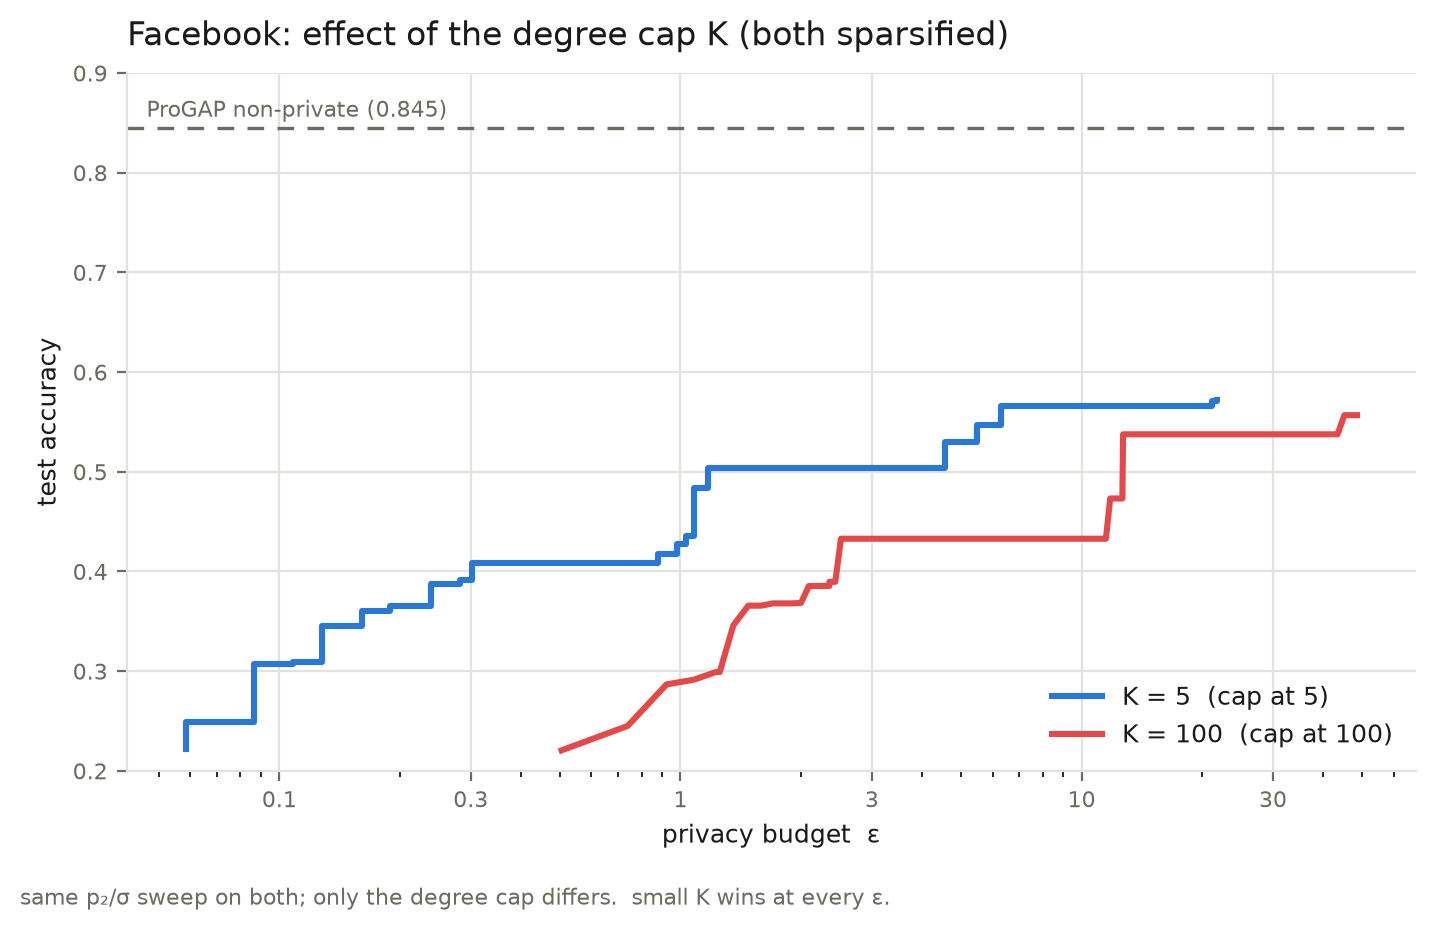
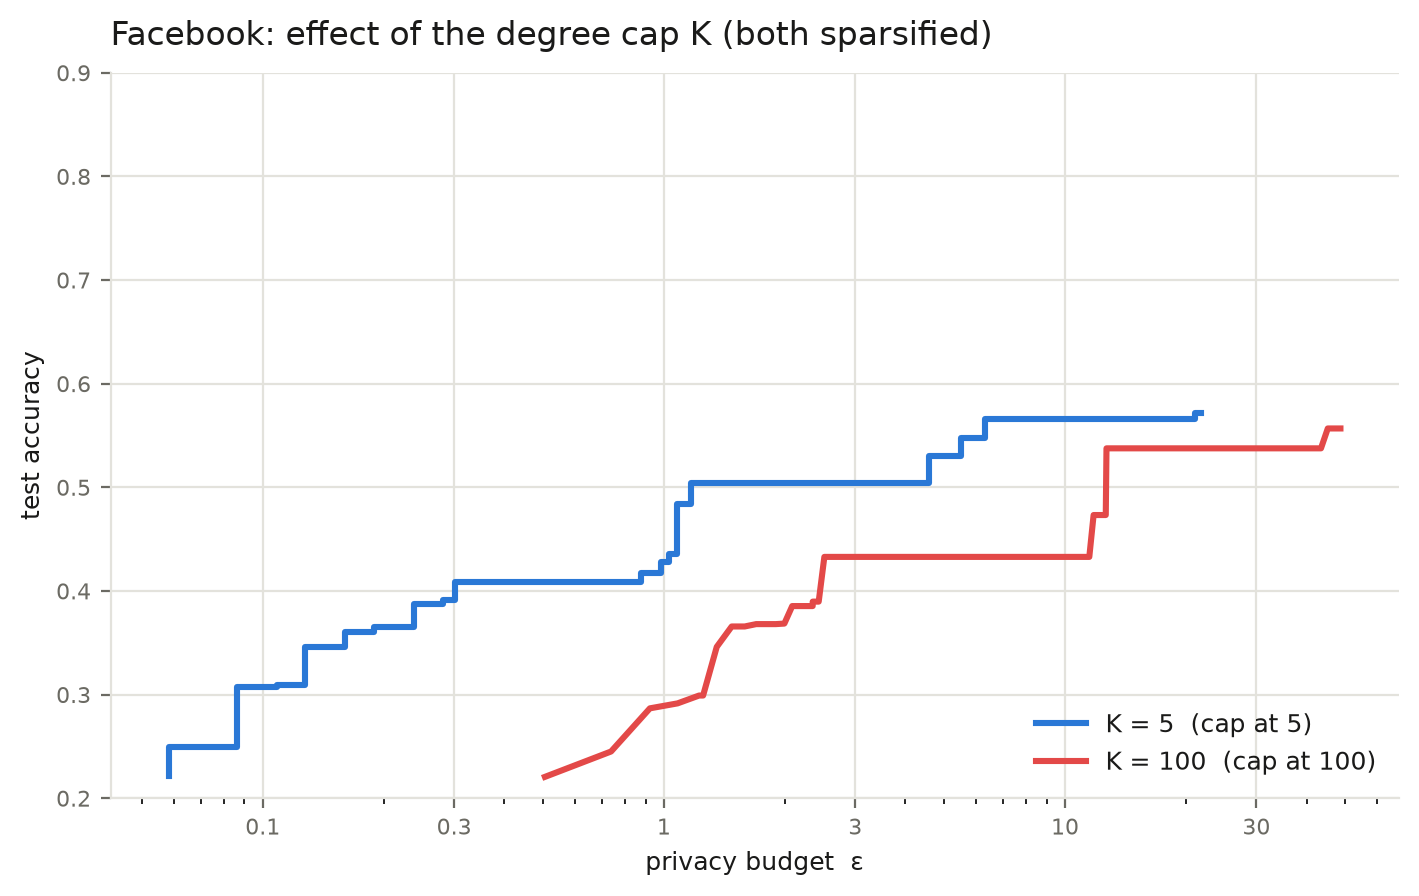
Remove bottom captions from all figures; drop ProGAP references from Facebook plots
Strip the fig.text footnotes from the PPI pareto/frontier plots and rebuild the
two custom Facebook figures (matched-vs-sparse, K-isolation) without the ProGAP
non-private line, eps=8 point, or labels.

diff --git a/scripts/plot_ppi_pareto.py b/scripts/plot_ppi_pareto.py
@@ -120,10 +120,6 @@ def main():
     ax.tick_params(colors=MUTED, labelsize=8)
     ax.legend(frameon=False, fontsize=9, loc='lower right', labelcolor=INK)
 
-    fig.text(0.01, 0.005,
-             'p₂ is the fraction of edges kept.  2 seeds, r=1, L=2, K=5, '
-             'p₁=0.01; ε grows with the number of training steps.',
-             fontsize=8, color=MUTED)
     fig.tight_layout(rect=(0, 0.03, 1, 1))
     os.makedirs(os.path.dirname(args.out), exist_ok=True)
     fig.savefig(args.out, dpi=200, bbox_inches='tight', facecolor='white')
